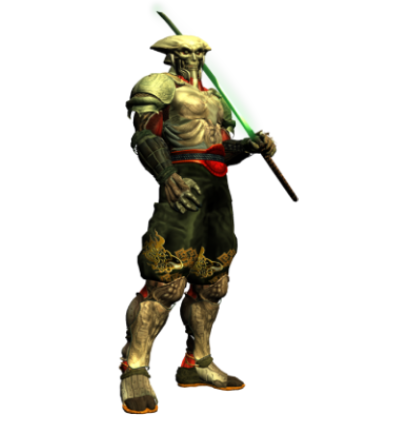
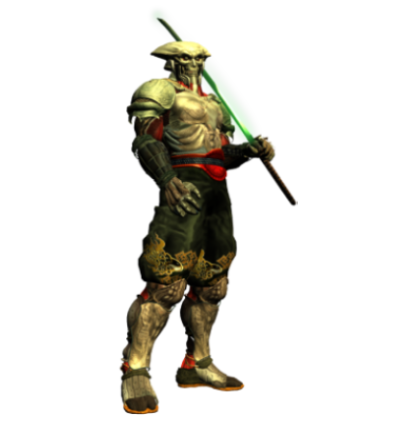
yoshi

Changed region(s): [[0.3046, 0.0307, 0.7614, 0.9811], [0.4264, 0.7972, 0.6396, 0.9505], [0.3959, 0.9505, 0.4264, 0.9811]]

diff --git a/src/styles.css b/src/styles.css
@@ -92,14 +92,17 @@ body {
 
 .display.fight-active .fighter::before {
     background: transparent !important;
+    animation: fadeIn 1.5s ease-in;
 }
 
 .display.fight-active .vsText {
     display: none;
+    animation: fadeIn 1.5s ease-in;
 }
 
 .display.fight-active .attributes {
     display: none;
+    animation: fadeIn 1.5s ease-in;
 }
 
 .display.fight-active .fighter img.fullBody {
@@ -119,11 +122,11 @@ body {
 }
 
 .fighter1 img.fullBody {
-    right: 15vw;
+    bottom: 0;
 }
 
 .fighter2 img.fullBody {
-    left: 15vh;
+    bottom: 0;
 }
 
 .fighter img.fullBody {

diff --git a/src/app/components/display/display.component.css b/src/app/components/display/display.component.css
@@ -13,6 +13,7 @@
     background-position: center bottom !important;
     background-size: cover;
     background-repeat: no-repeat;
+    animation: fadeIn 1.5s ease-in;
 }
 
 .display.default-arena {

diff --git a/src/app/services/character.service.ts b/src/app/services/character.service.ts
@@ -24,5 +24,4 @@ export class CharacterService {
         return of(this.arenas);
     }
 
-
 }
